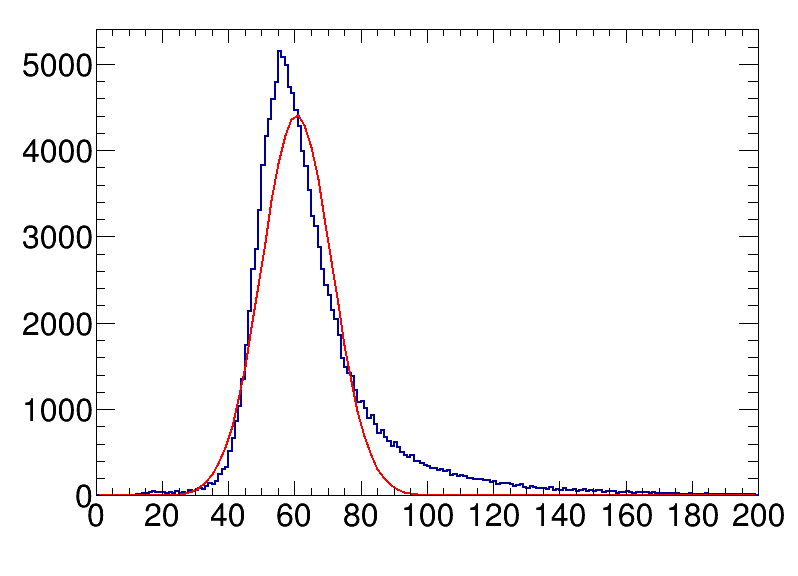
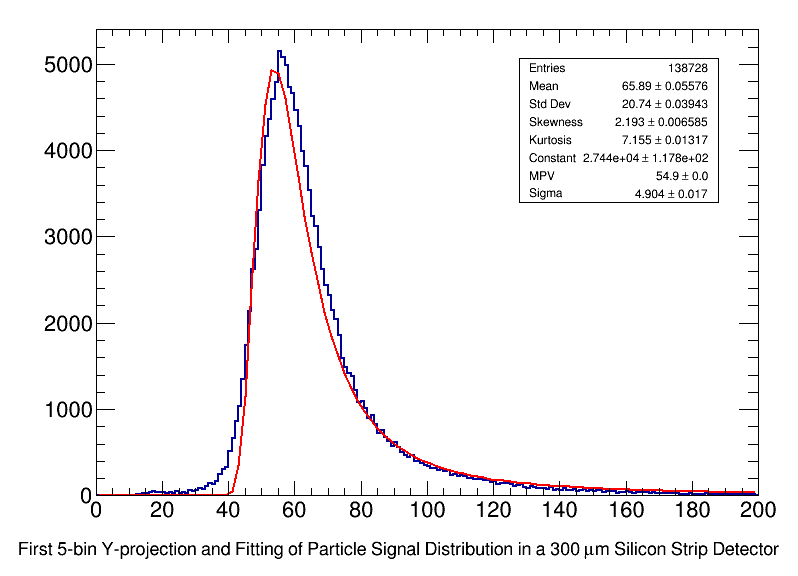
20240906; attention: .root write-in error

diff --git a/actask3/task1_3.C b/actask3/task1_3.C
@@ -1,0 +1,82 @@
+#include "/home/albert/rootdoc/actask3/style.h"
+
+void task1_3(){
+    
+    MyStyle(); // 头文件中的内容
+
+    TFile *file = TFile::Open("result.root"); // 打开 result.root
+    TH2D *r_strip = (TH2D*)file ->Get("r_strip"); // 获取 r_strip
+
+    TCanvas *c0 = new TCanvas("c0", "r_strip output", 600, 800);
+    r_strip -> Draw();
+
+    gStyle -> SetOptStat(1111);
+    r_strip -> SetStats(1);
+
+    c0 -> SaveAs("r_strip output.png");
+    delete c0;
+
+    TH1D *h1 = r_strip -> ProjectionY("ShouldDelete", 1, 5); // 从第1个bin到第5个bin进行投影
+
+    h1 -> Fit("gaus");
+    TF1 *fitResult = h1 -> GetFunction("gaus");
+    // fitResult -> SetLineColor(kBlue);
+
+    h1 -> Fit("landau");
+    TF1 *fitResultLandau = h1 -> GetFunction("landau");
+    // fitResultLandau -> SetLineColor(kRed);
+
+
+    // 创建 root 文件, 后续再输出图像文件
+    TFile *outFile = new TFile("output1_3.root", "RECREATE"); 
+    h1 -> Write();
+    fitResult -> Write("gauseFit");
+    fitResultLandau -> Write("landauFit");
+    outFile -> Close();
+    file -> Close();
+
+
+    // 接下来通过 output1_3.root 生成输出的图片
+    TFile *inFile = TFile::Open("output1_3.root");
+
+    TH1D *h2 = (TH1D*)inFile -> Get("ShouldDelete");
+    TF1 *fitResult2 = (TF1*)inFile -> Get("gauseFit");
+    TF1 *fitResultLandau2 = (TF1*)inFile -> Get("landauFit");
+
+    fitResult2 -> SetLineColor(kBlue);
+    fitResultLandau2 -> SetLineColor(kRed);
+    fitResult2 -> Draw("same");
+    fitResultLandau2 -> Draw("same");
+
+    TCanvas *c1 = new TCanvas("c1", "Histogram", 800, 600);
+    h2 -> GetXaxis() -> SetLabelSize(0.04);
+    h2 -> GetYaxis() -> SetLabelSize(0.04);
+    h2 -> Draw();
+
+    gStyle-> SetOptStat("eMRSK");
+    gStyle-> SetOptFit(0111);
+    h2 -> SetStats(1);
+
+    TPaveStats *stats = (TPaveStats*)h2 -> FindObject("stats");
+    if (stats){
+        stats -> SetX1NDC(0.65);
+        stats -> SetY1NDC(0.65);
+        stats -> SetX2NDC(0.9);
+        stats -> SetY2NDC(0.9);
+    }
+    TLegend *legend = new TLegend(0.7, 0.7, 0.9, 0.9);
+    legend -> AddEntry(fitResult2, "Gaussian Fit", "l");
+    legend -> AddEntry(fitResultLandau2, "Landau Fit", "l");
+
+    TLatex *title = new TLatex();
+    title -> SetTextAlign(22);
+    title -> SetTextSize(0.033);
+    title -> DrawLatexNDC(0.5, 0.047, "First 5-bin Y-projection and Fitting of Particle Signal Distribution in a 300 #mum Silicon Strip Detector"); 
+
+    c1 -> SaveAs("task1_3_output.png");
+
+    delete c1;
+    inFile -> Close();
+    delete inFile;
+
+}
